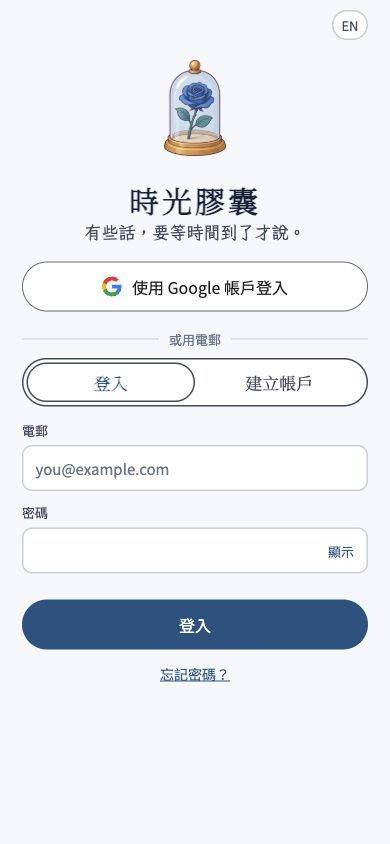
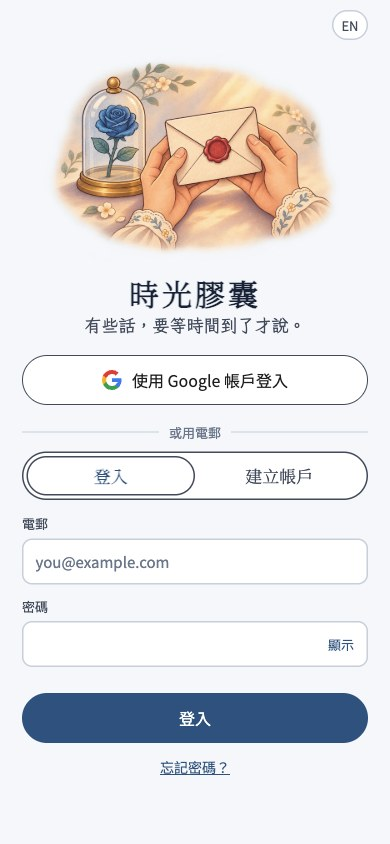
Use welcome scene on sign-in

diff --git a/mobile/src/features/auth/AuthScreen.tsx b/mobile/src/features/auth/AuthScreen.tsx
@@ -1,8 +1,8 @@
 import React, { useState } from "react";
-import { TextInput, Text, View, Pressable, ScrollView } from "react-native";
+import { Image, TextInput, Text, View, Pressable, ScrollView, useWindowDimensions } from "react-native";
 import { SafeAreaView } from "react-native-safe-area-context";
 import Svg, { Path } from "react-native-svg";
-import { Vessel } from "../../components/Vessel";
+import { scenes } from "../../art/manifest";
 import { Avatar } from "../../components/Avatar";
 import { useLanguage } from "../../i18n";
 import { useAuth, redirectUri, signInGoogle } from "../../services/auth";
@@ -20,6 +20,8 @@ function GoogleMark() {
 export default function AuthScreen() {
   const { t, language, setLanguage } = useLanguage(),
     auth = useAuth();
+  const { width } = useWindowDimensions();
+  const welcomeWidth = Math.min(320, width - 44);
   const [mode, setMode] = useState<"signin" | "signup" | "forgot" | "check">(
       "signin",
     ),
@@ -80,7 +82,7 @@ export default function AuthScreen() {
   const primary = auth.recovery ? "newPwBtn" : mode === "forgot" ? "sendReset" : mode === "signup" ? "signUpBtn" : "signInBtn";
   return <SafeAreaView style={{ flex: 1, backgroundColor: C.paper }}><ScrollView keyboardShouldPersistTaps="handled" contentContainerStyle={{ flexGrow: 1, width: "100%", maxWidth: 600, alignSelf: "center", paddingHorizontal: 22, paddingBottom: 28 }}>
     <View style={{ alignItems: "flex-end", paddingTop: 10 }}><Pressable accessibilityRole="button" accessibilityLabel={t("langAria")} onPress={() => setLanguage(language === "zh" ? "en" : "zh")} style={{ height: 30, minWidth: 34, paddingHorizontal: 8, borderWidth: 1.5, borderColor: "#CDD5DF", borderRadius: 999, backgroundColor: C.white, justifyContent: "center", alignItems: "center" }}><Text style={{ color: "#4A5466", fontSize: 13, fontFamily: sans }}>{language === "zh" ? "EN" : "繁中"}</Text></Pressable></View>
-    <View style={{ alignItems: "center", marginTop: 8 }}><Vessel kind="dome" size={120} /><Text style={{ fontFamily: serif, fontWeight: "700", fontSize: 30, color: C.ink, letterSpacing: language === "zh" ? 3 : 0, marginTop: 10 }}>{t("appTitle")}</Text><Text style={{ fontFamily: handwriting, color: "#4A5466", fontSize: 17, textAlign: "center", marginBottom: 18 }}>{t("tagline")}</Text></View>
+    <View style={{ alignItems: "center", marginTop: 8 }}><Image source={scenes.welcome} resizeMode="contain" accessibilityLabel={t("appTitle")} style={{ width: welcomeWidth, height: welcomeWidth * 2 / 3 }} /><Text style={{ fontFamily: serif, fontWeight: "700", fontSize: 30, color: C.ink, letterSpacing: language === "zh" ? 3 : 0, marginTop: 10 }}>{t("appTitle")}</Text><Text style={{ fontFamily: handwriting, color: "#4A5466", fontSize: 17, textAlign: "center", marginBottom: 18 }}>{t("tagline")}</Text></View>
     {auth.inviter && <View style={{ flexDirection: "row", alignItems: "center", gap: 10, backgroundColor: C.white, borderWidth: 1.5, borderColor: C.line, borderRadius: 12, padding: 12, marginBottom: 14 }}><Avatar avatar={auth.inviter.avatar} size={36} /><Text style={{ color: C.ink, flex: 1 }}>{t("inviteBanner", auth.inviter.name)}</Text></View>}
     {!isConfigured && <Text style={{ color: C.wax }}>{t("configMissing")}</Text>}
     {mode === "check" && !auth.recovery ? <View style={{ gap: 16 }}><Text style={{ fontFamily: serif, fontSize: 20, color: C.ink }}>{t("checkEmail")}</Text><Text style={{ color: C.ink }}>{t(checkKind === "reset" ? "checkReset" : "checkVerify", email)}</Text><Pressable onPress={() => setMode("signin")} style={[pill, { backgroundColor: C.blue }]}><Text style={{ color: C.white }}>{t("backToSignIn")}</Text></Pressable></View> : <>

diff --git a/AGENTS.md b/AGENTS.md
@@ -64,6 +64,7 @@ A mobile-first web app for sending someone a sealed **capsule** that can only be
 - Run: `npm install`, put the project URL and publishable key in `.env.local` (see `.env.example`), then `npm run dev` → http://localhost:5173.
 
 ## Decisions log
+- 2026-11-07: Roy chose the illustrated `scene-welcome.png` composition for the sign-in screen in place of the assembled dome. The Expo screen displays its existing `public/art/scenes/scene-welcome.webp` app export. Empty inbox, empty sent, and sealed continue to display their corresponding scene images.
 - 2026-11-07: Roy's PR #16 re-review uses the root web app's CSS and markup for S0, Home headlines, capsule page 1, and the Sent view, while retaining the new illustrated vessels. All seven opening layers were retimed against their art pivots; the seal ceremony translates its letter in an outer view so shrinking cannot shorten the drop. PR #16 stays open for Claude's re-review; no merge or deploy yet.
 - 2026-11-07: Roy and Claude's A1 Cabinet review measured shelf standing surfaces at y≈250/510/765 and usable width x≈175–850 on the 1024 px shelf. Cabinet vessel bases now use those surfaces and each assembled image's measured alpha bottom; plaques sit below boards. Journey covers its frame without changing map geography or pin coordinates. Letter paper reaches the sheet edge and handwritten exports use transparent ink.
 - 2026-11-07: A1 uses the illustrated `scene-sealed.webp` for the sealed result and `seal-wax.webp` for the draggable and stamped ceremony seal. Metro loads WebP directly from root `public/art/` with no duplicate assets. The SVG vessel and legacy avatar paths remain available. The stylised Journey map uses PR #12 display pins; server-side GPS remains based on the place table.

diff --git a/docs/review/a1/README.md b/docs/review/a1/README.md
@@ -24,7 +24,7 @@ The **Original** column uses `src/main.js` and `src/styles.css` from the root we
 | Sent, waiting | ![Original desktop waiting sender](original-sender-desktop.jpg) | ![Expo desktop waiting sender](expo-sender-waiting-desktop.jpg) |
 | Sent, opened | ![Original desktop opened sender](original-sender-opened-desktop.jpg) | ![Expo desktop opened sender](expo-sender-opened-desktop.jpg) |
 
-The sign-in top illustration uses the new **assembled dome** art. It reads clearly at the original 120 px size. The Home card number, page story emphasis, four live countdown boxes, destination link, sender's dashed sealed placeholder, and plain centered hint use the original CSS measurements and colors. The countdown remains visible until a sent capsule is actually opened, including at zero after its unlock time.
+The sign-in top illustration now uses the **welcome scene**, the app's WebP export of `design/art/scenes/scene-welcome.png`, as Roy requested. The 390 px and desktop Expo sign-in captures above show this update. Empty inbox uses `scene-empty-inbox.webp`, empty sent uses `scene-empty-sent.webp`, and the sealed result uses `scene-sealed.webp`; all three were checked against their screen code and browser captures. The Home card number, page story emphasis, four live countdown boxes, destination link, sender's dashed sealed placeholder, and plain centered hint use the original CSS measurements and colors. The countdown remains visible until a sent capsule is actually opened, including at zero after its unlock time.
 
 ## Vessel motion review
 
